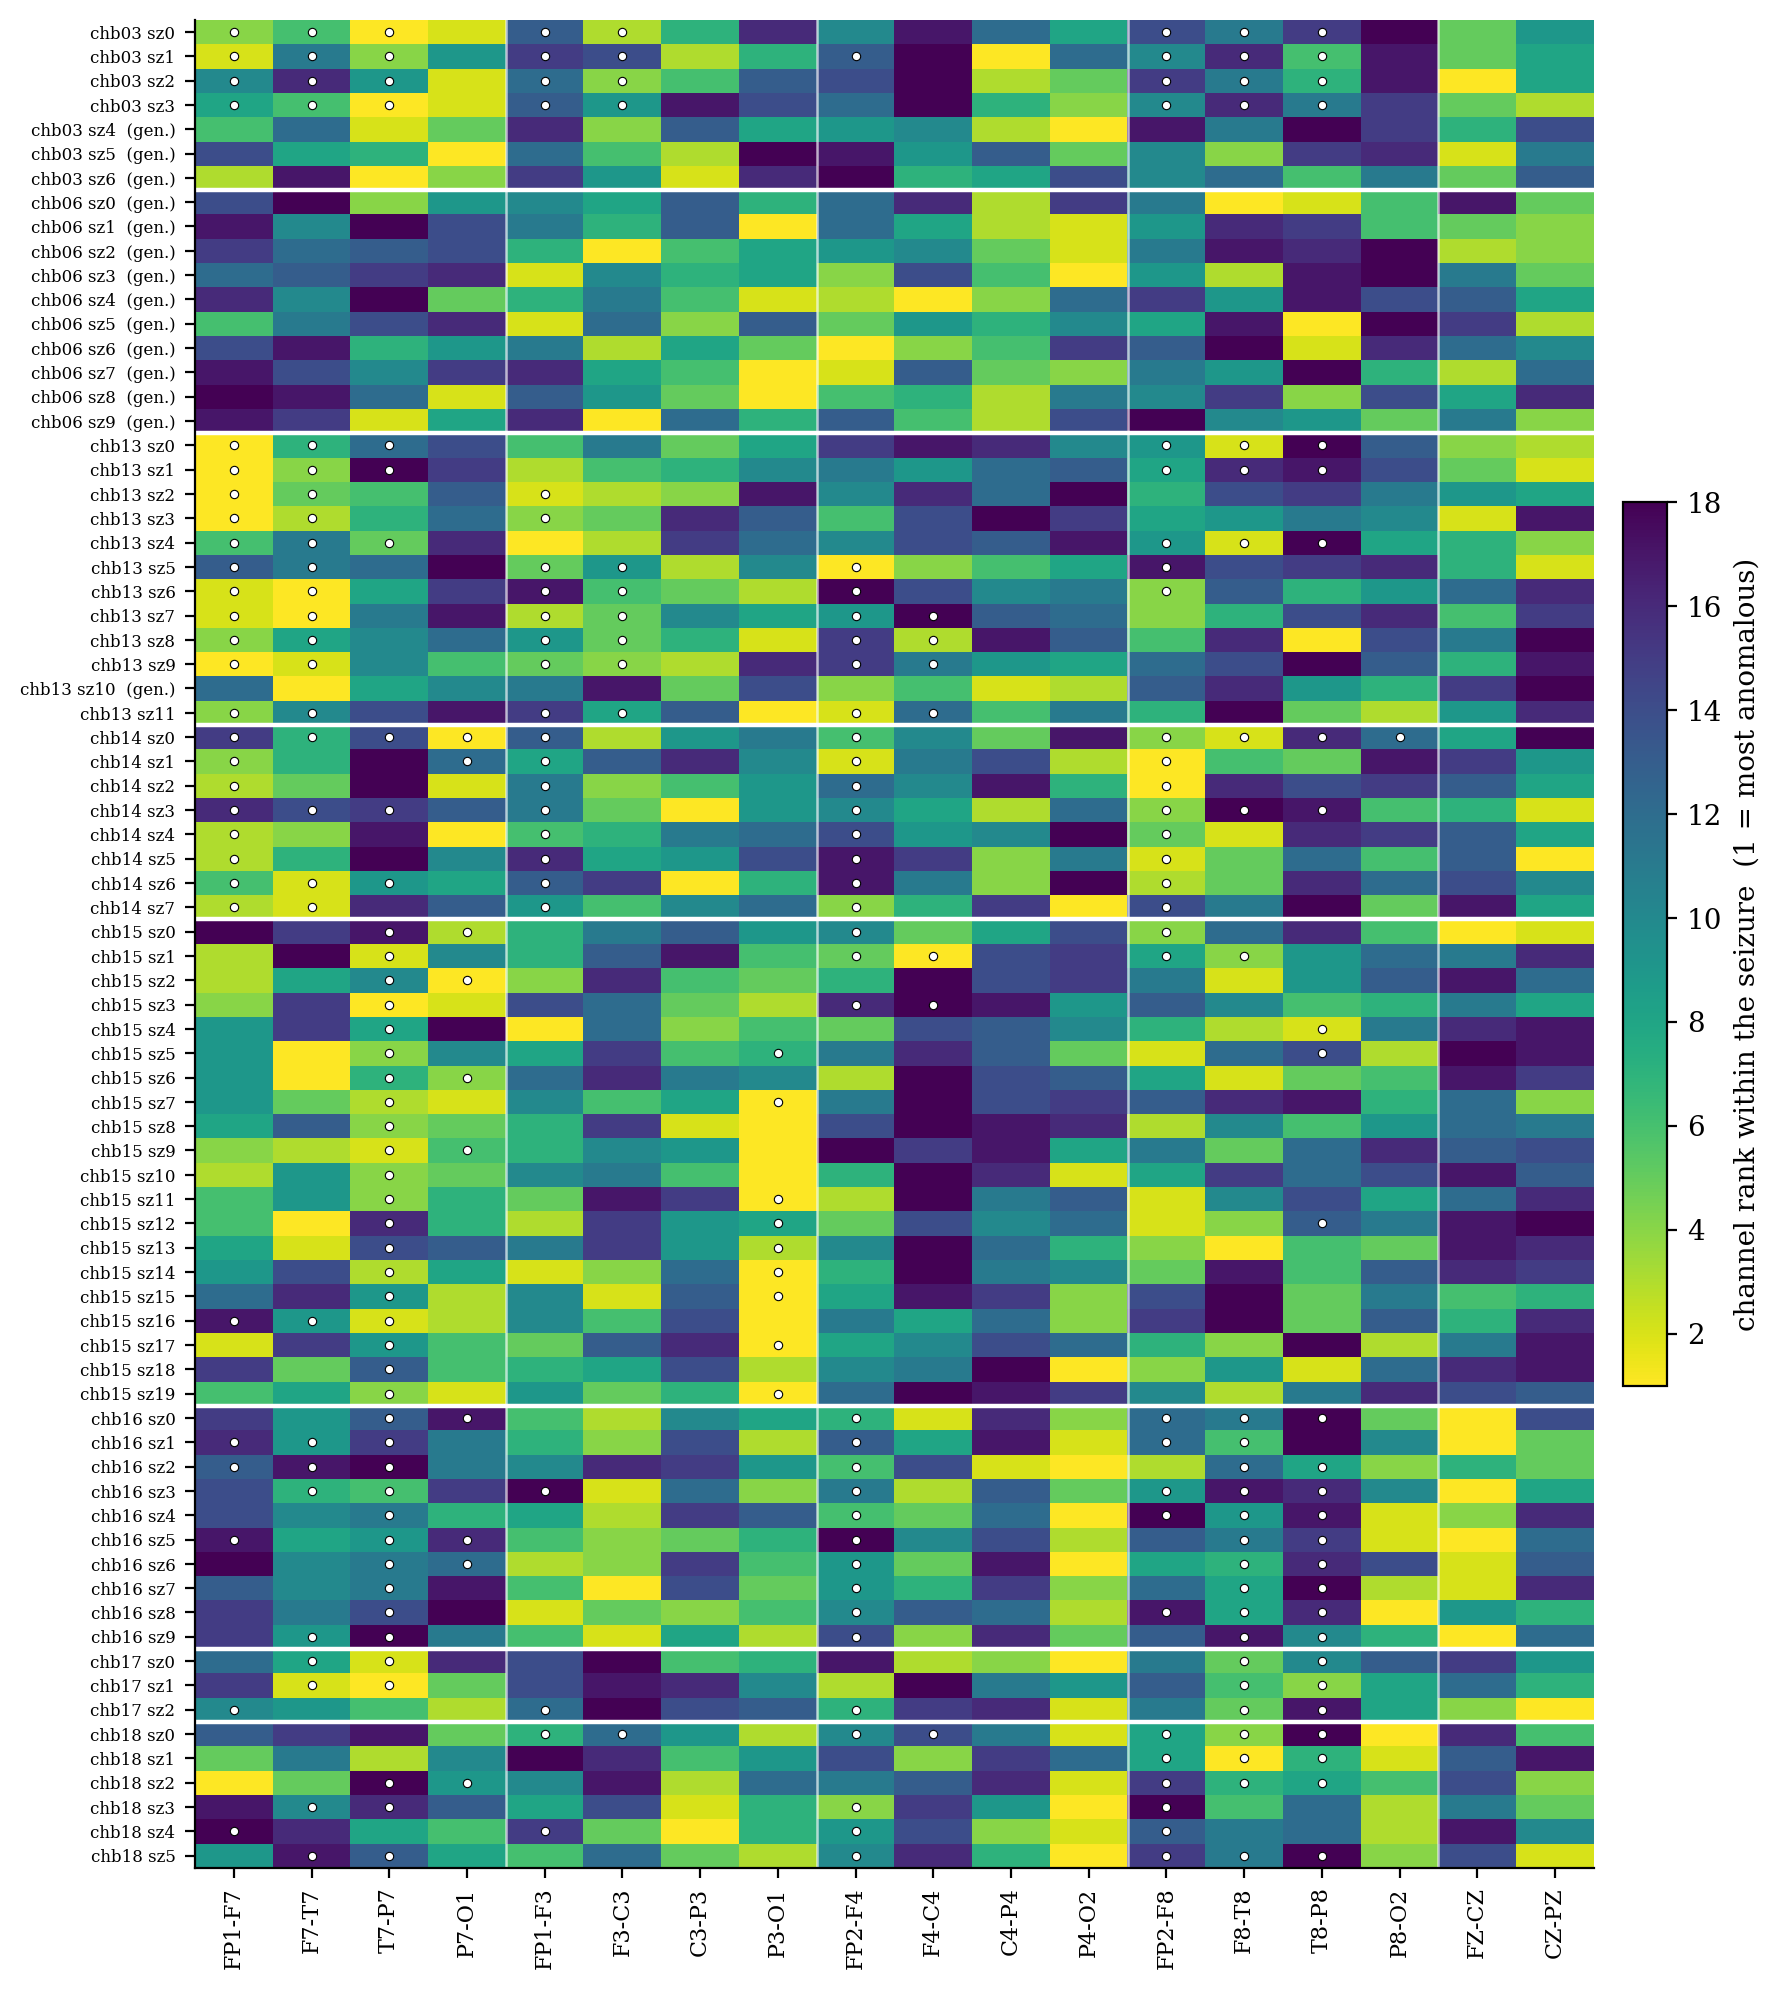
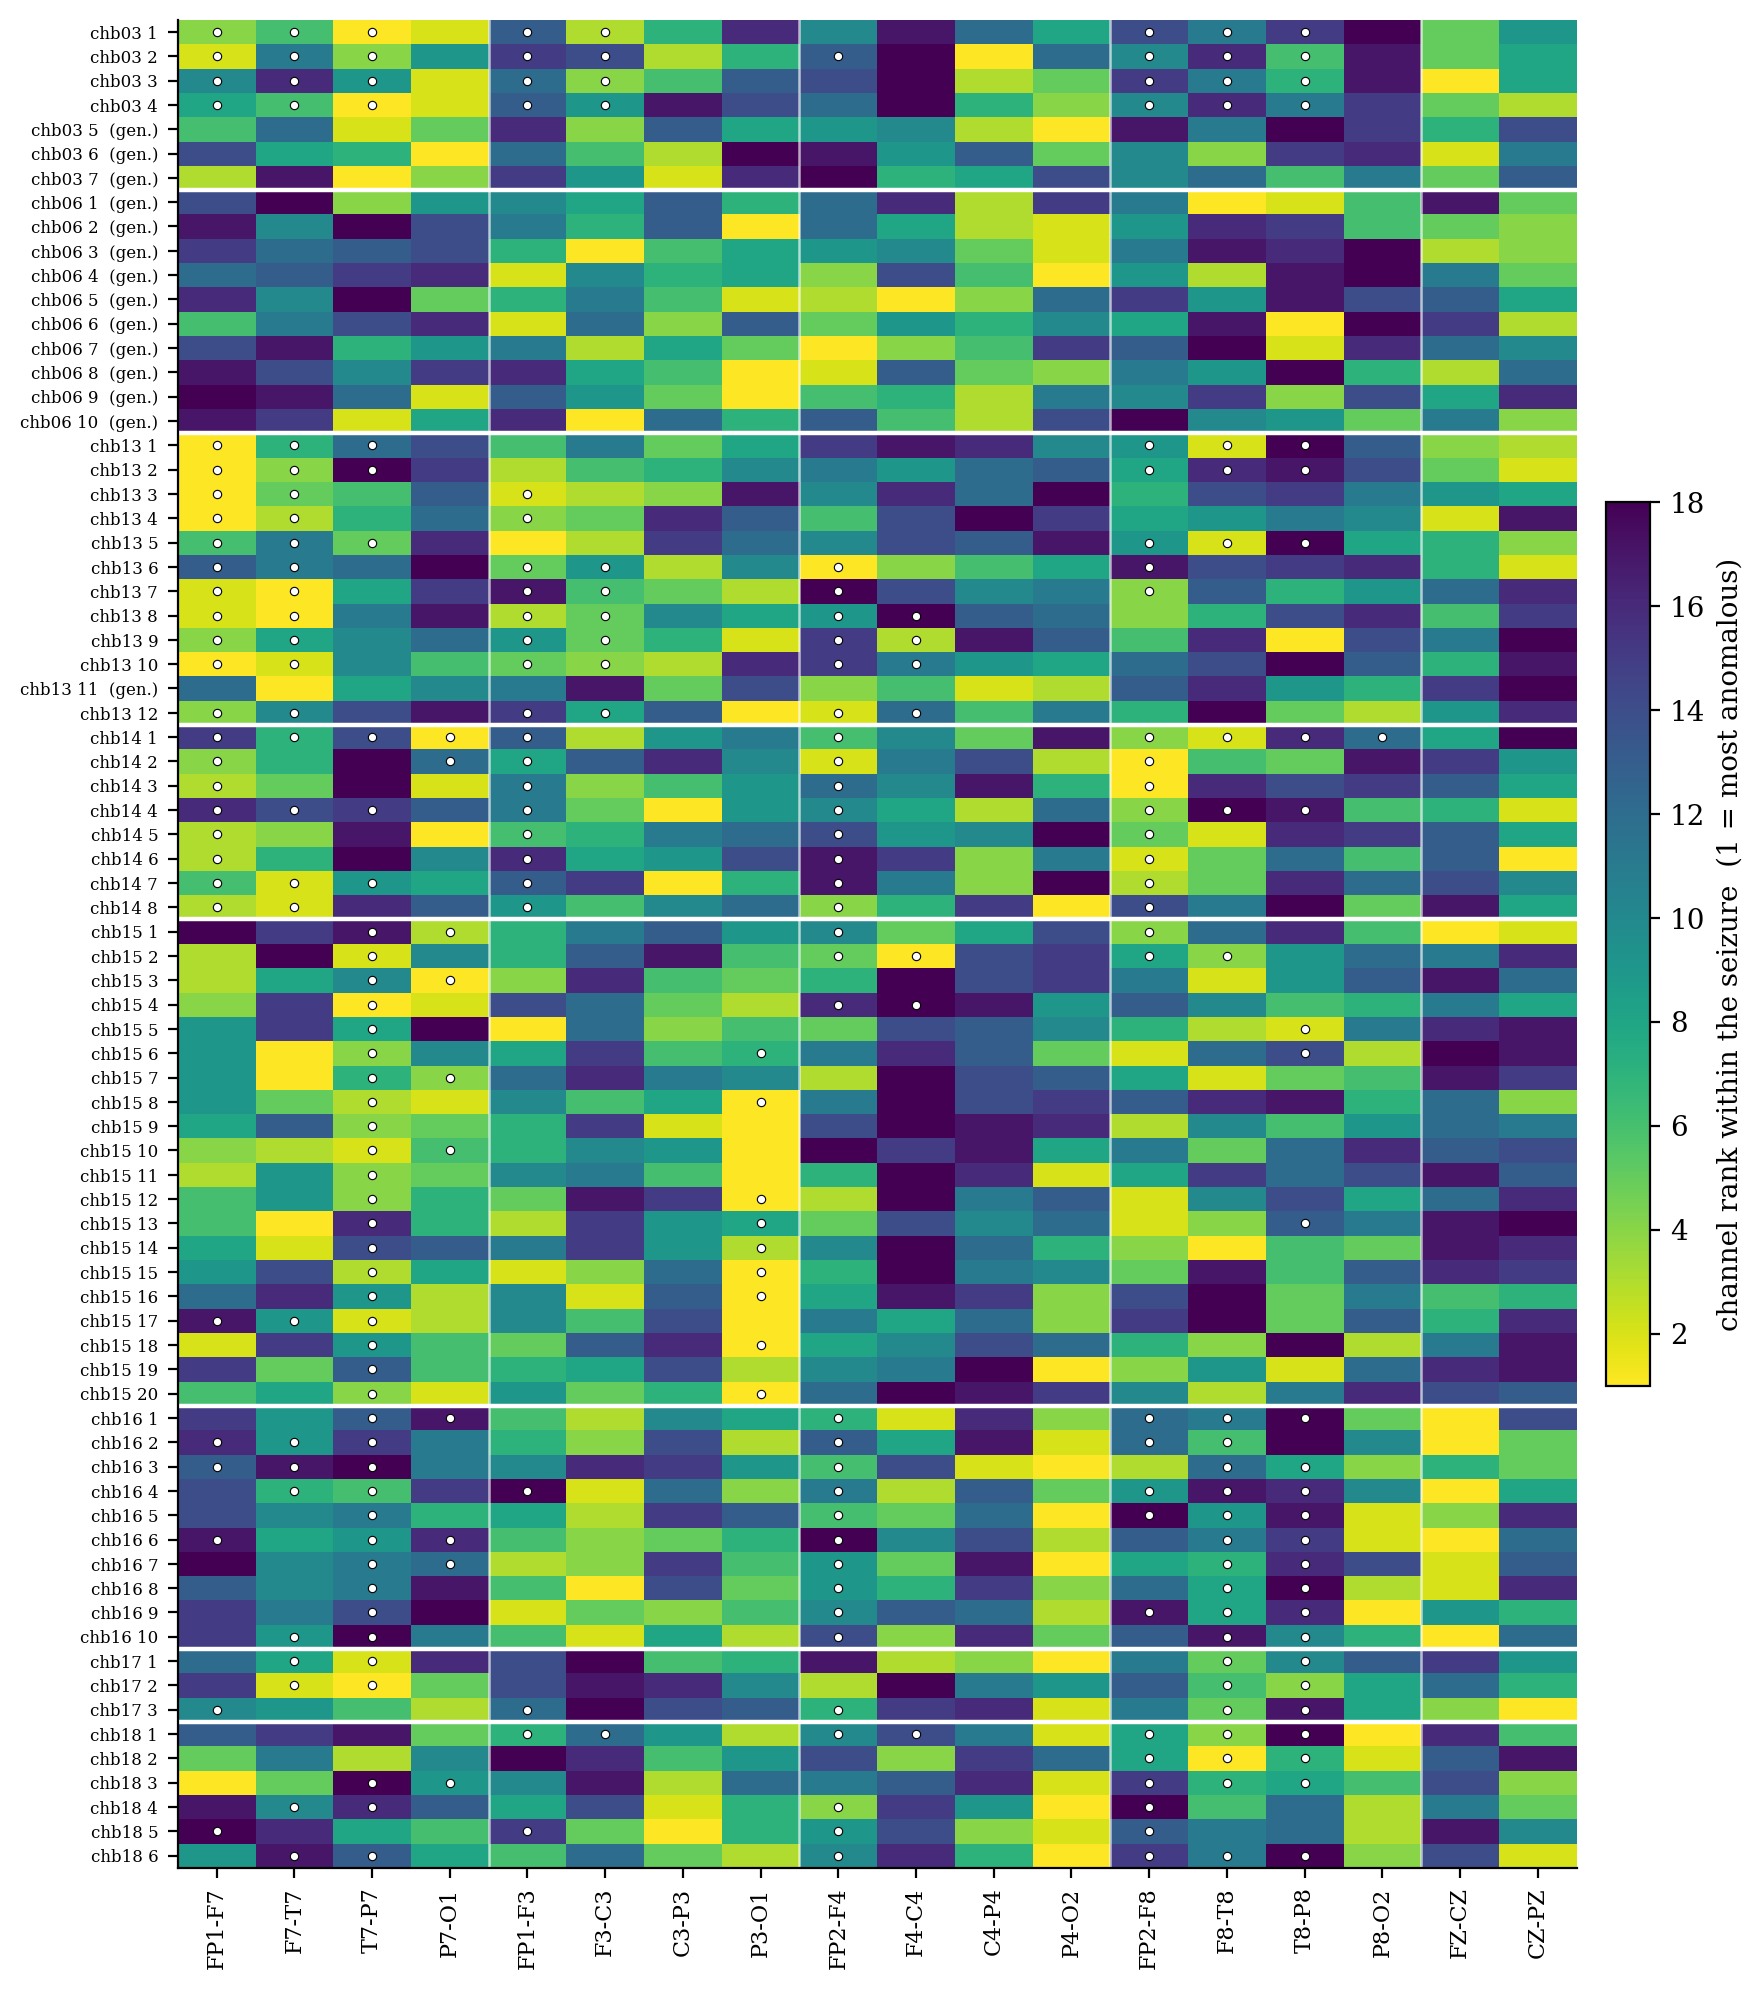
Figures 3.5 and A.7: one-based seizure labels, American spelling

diff --git a/src/figures/attribution_figures.py b/src/figures/attribution_figures.py
@@ -172,7 +172,7 @@ def fig3_rank_heatmap():
     ax.set_xticks(range(18))
     ax.set_xticklabels(CH, rotation=90, fontsize=8)
     ax.set_yticks(range(len(order)))
-    ax.set_yticklabels([f"{s} sz{i}" for s, i in order], fontsize=6)
+    ax.set_yticklabels([f"{s} {i+1}" for s, i in order], fontsize=6)
     for b in np.cumsum([sum(1 for s, _ in order if s == t) for t in TEST_SUBJ])[:-1]:
         ax.axhline(b - 0.5, color="w", lw=1.6)
     for b in (3.5, 7.5, 11.5, 15.5):
@@ -196,7 +196,7 @@ def fig3_rank_heatmap():
     if (nf, ng, len(xs)) != (EXPECTED_FOCAL, EXPECTED_GEN, EXPECTED_MARKS):
         die("Figure 3.9 overlay self-check failed — stop")
     ax.scatter(xs, ys, s=9, c="white", edgecolors="black", linewidths=0.4, zorder=3)
-    ax.set_yticklabels([f"{s} sz{i}" + ("  (gen.)" if lab[(s, i)][0] == "generalized" else "")
+    ax.set_yticklabels([f"{s} {i+1}" + ("  (gen.)" if lab[(s, i)][0] == "generalized" else "")
                         for s, i in order], fontsize=6)
     cb = fig.colorbar(im, ax=ax, fraction=0.030, pad=0.02)
     cb.set_label("channel rank within the seizure  (1 = most anomalous)")

diff --git a/src/figures/fig3_15_diffuseness.py b/src/figures/fig3_15_diffuseness.py
@@ -72,7 +72,7 @@ def main():
     ax.set_xticks(ticks)
     ax.set_xticklabels([str(t) for t in ticks])
     ax.set_xlabel("Number of injected channels, |S|")
-    ax.set_ylabel("Diffuseness (normalised entropy of the 18 scores)")
+    ax.set_ylabel("Diffuseness (normalized entropy of the 18 scores)")
     ax.legend(fontsize=8.5, frameon=False, loc="upper center")
     ax.grid(alpha=0.25, lw=0.5)
 
